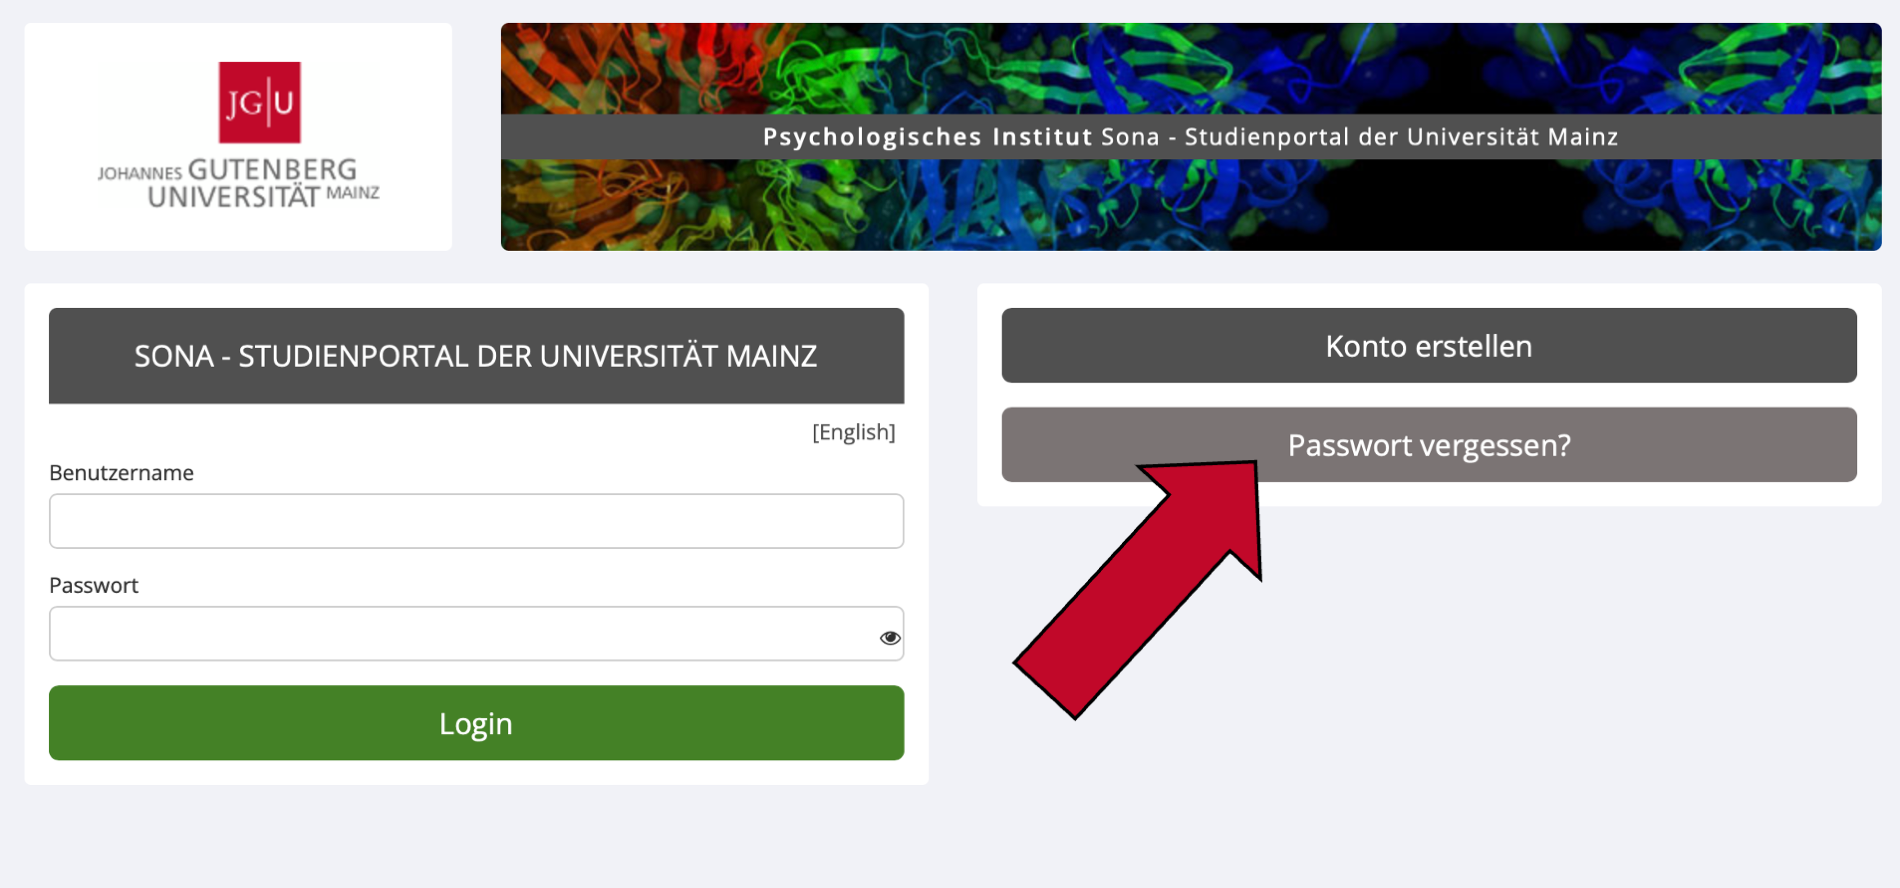
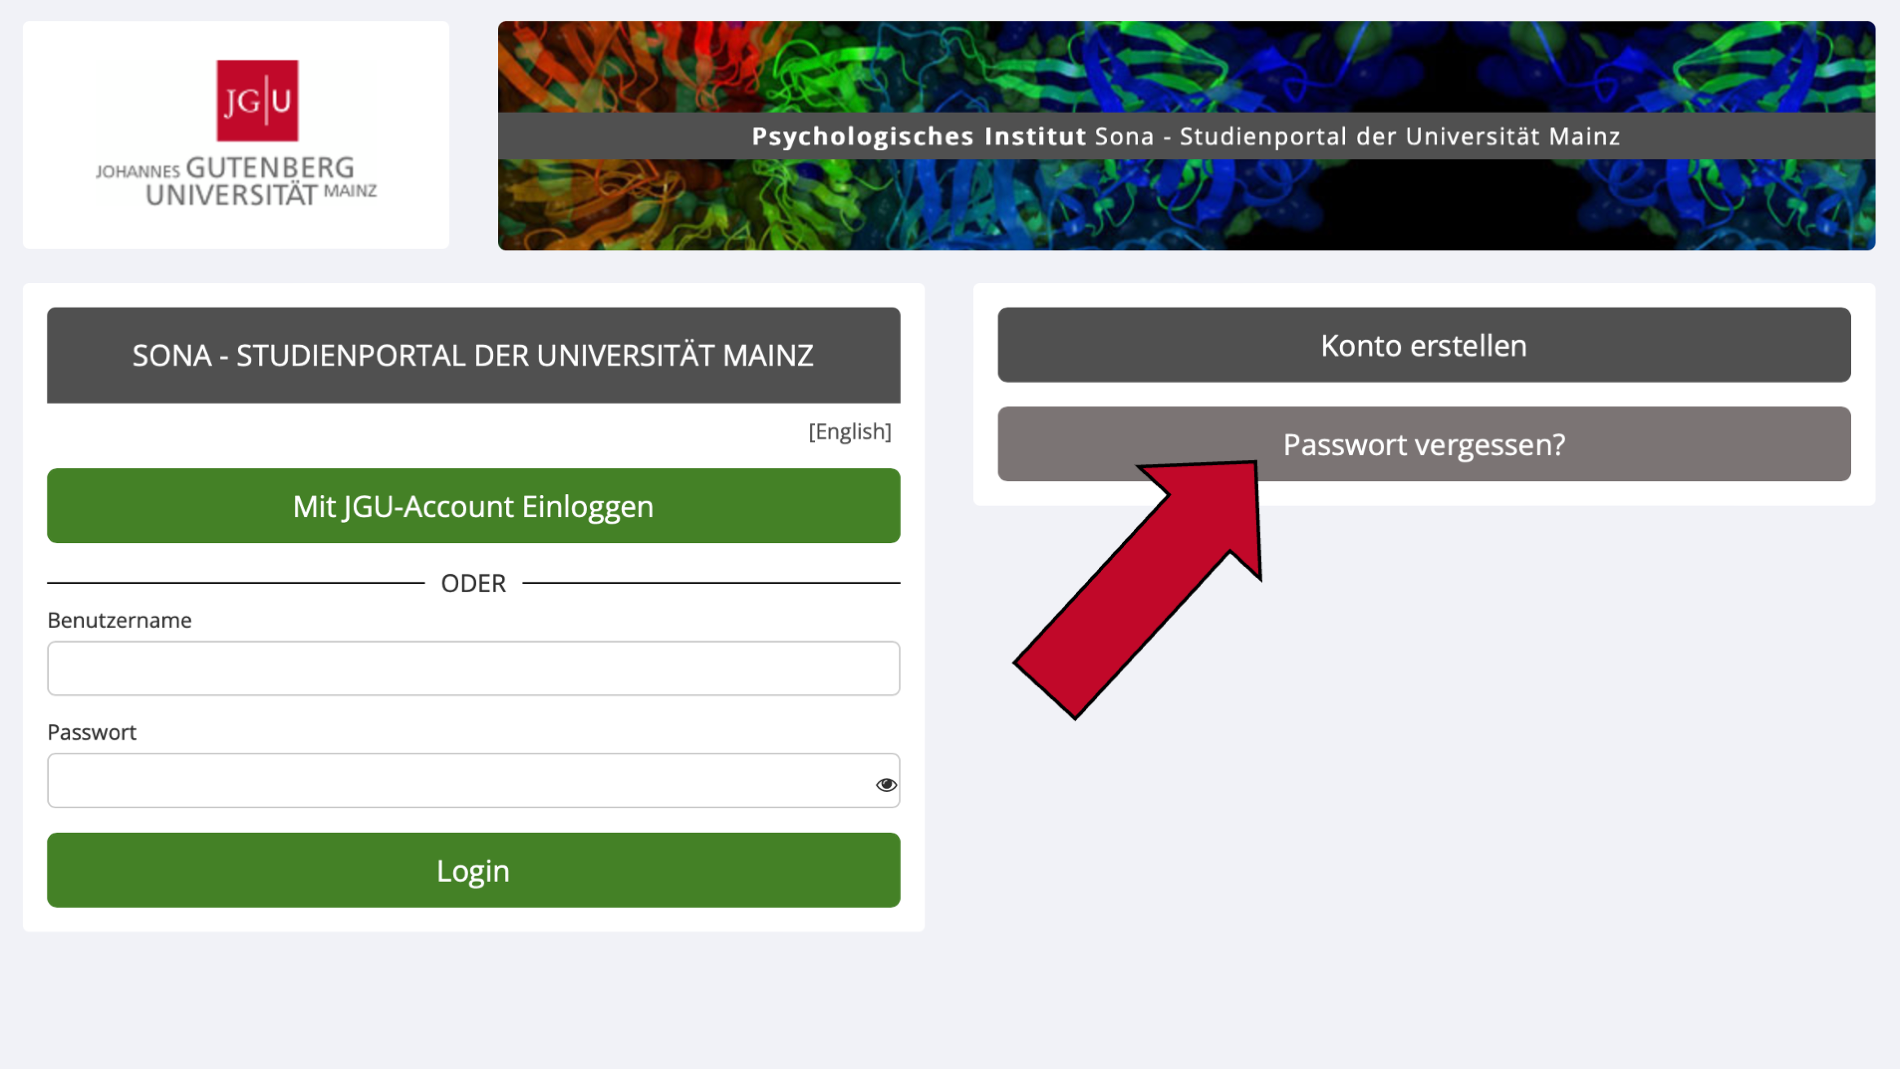
Updates nach SSO Integration und Beschlüssen im LK: Kapitel zu Account Erstellung hinzugefügt, Screenshots geändert wegen SSO und 0,5 als kleinste VP-Stunde, VP-StundenStückelung auf 0,5 gesetzt, Anreiz für Laborstudien entfernt (LK Beschluss),voraussichtlichen Link zum Forscher Handbuch eingefügt

diff --git a/style.css b/style.css
@@ -41,3 +41,21 @@ kbd {
   background-color: rgb(247, 247, 247);
   text-shadow: 0 1px 0 #fff;
 }
+
+
+
+.book .book-summary {
+  width: 400px;
+  position:absolute;
+  top:0;
+  left:-400px;
+}
+
+.book.with-summary .book-header.fixed {
+    left: 400px;
+}
+
+.book.with-summary .book-body {
+    left: 400px;
+}
+
